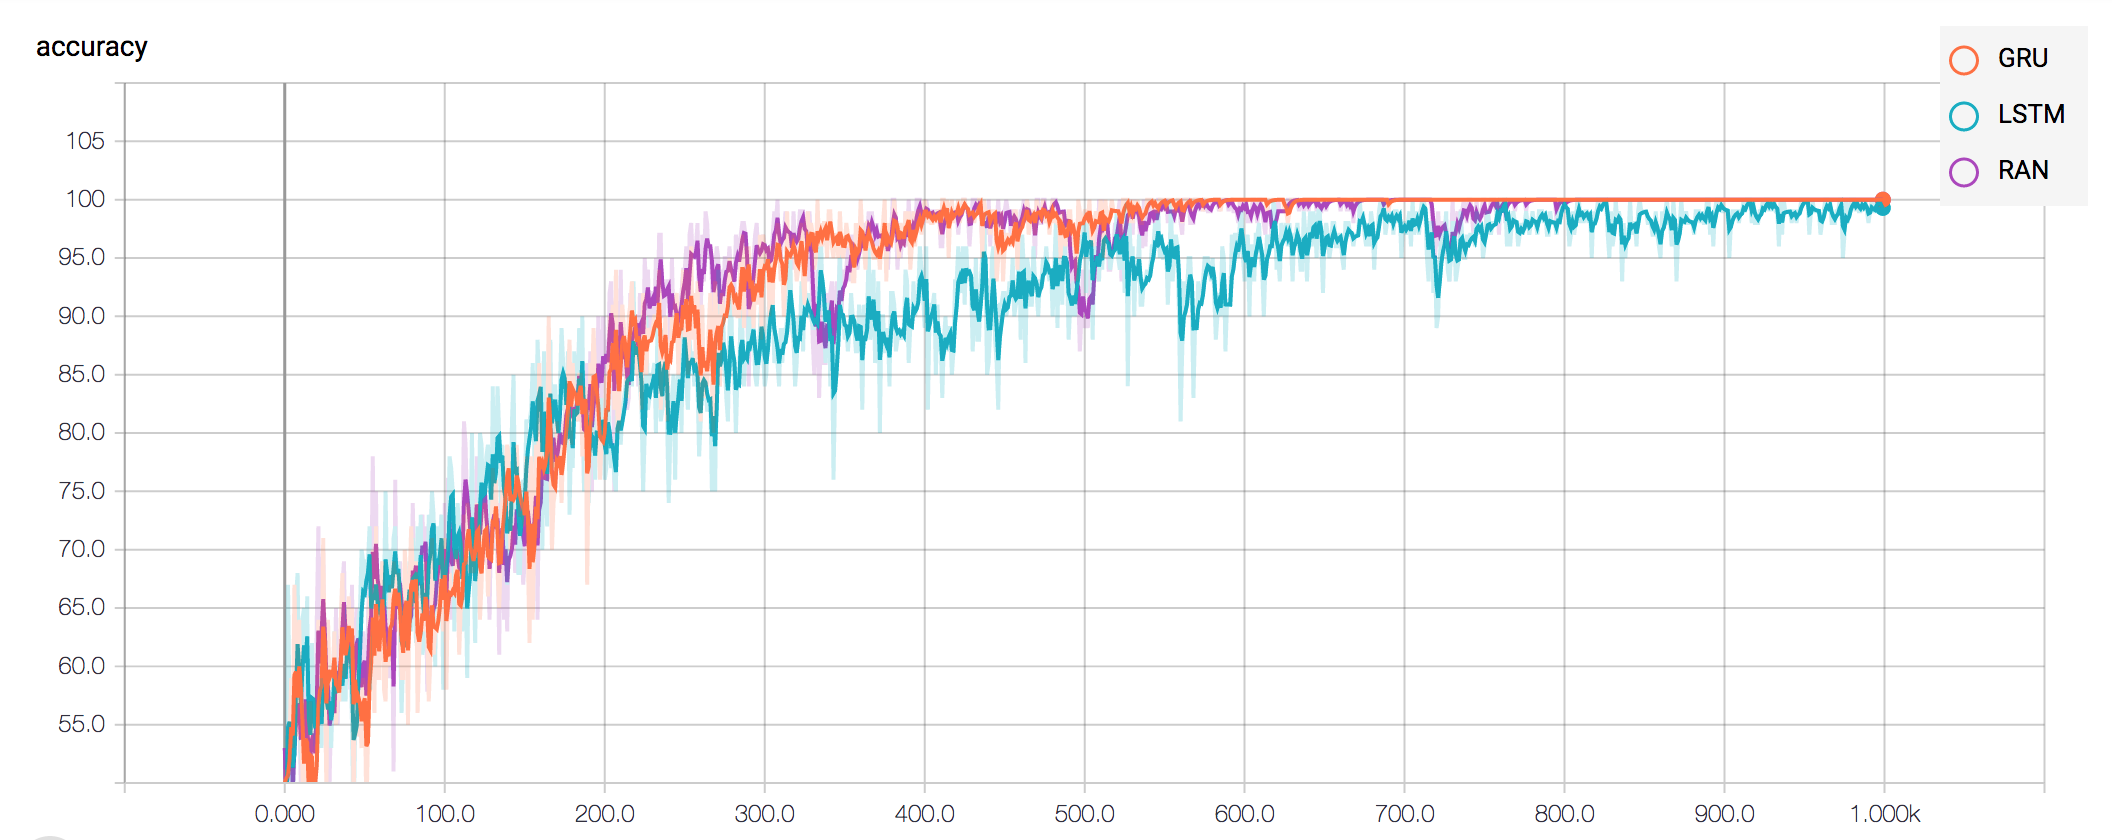
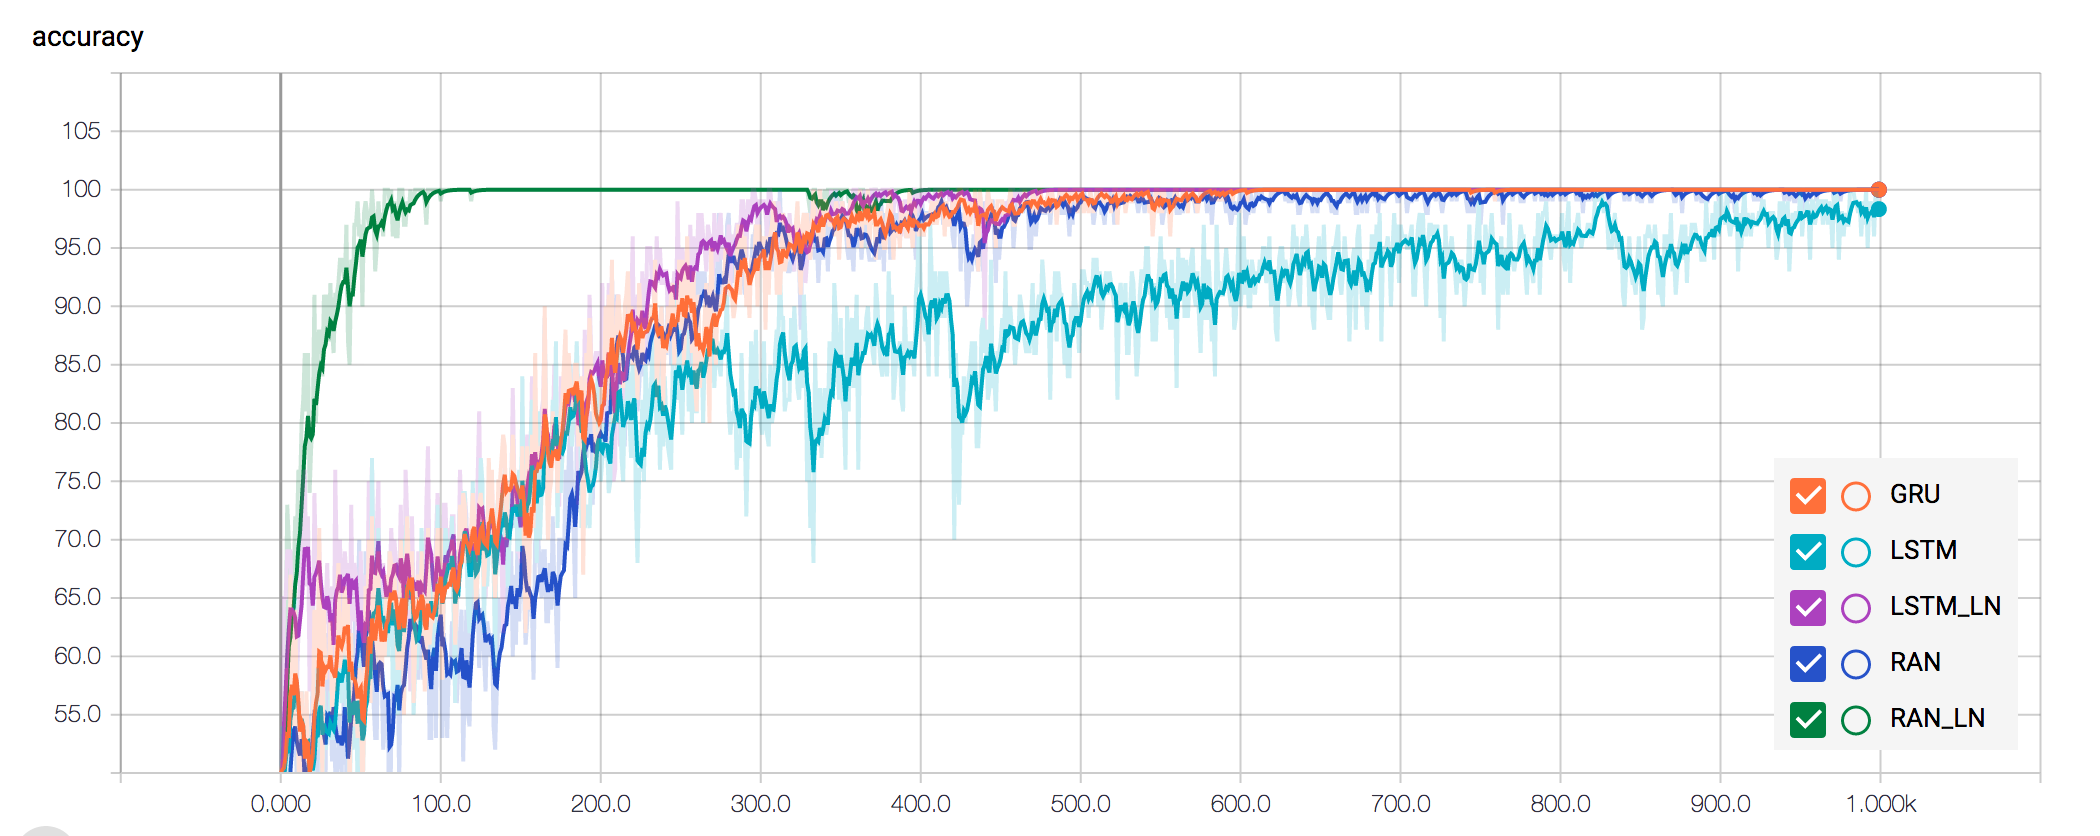
Update diagram image

diff --git a/train.py b/train.py
@@ -3,7 +3,7 @@ import numpy as np
 import tensorflow as tf
 import dataplumbing as dp
 from tensorflow.contrib import rnn
-from tensorflow.contrib.rnn import GRUCell, LSTMCell
+from tensorflow.contrib.rnn import GRUCell, BasicLSTMCell, LayerNormBasicLSTMCell
 from tensorflow.contrib.rnn.python.ops import core_rnn
 from tensorflow.contrib.layers import xavier_initializer as glorot
 from ran_cell import RANCell
@@ -20,7 +20,7 @@ def main(_):
   num_cells = 250
   num_classes = dp.train.num_classes
   initialization_factor = 1.0
-  num_iterations = 1000
+  num_iterations = 500
   batch_size = 100
   learning_rate = 0.001
   current_step = 0
@@ -38,7 +38,9 @@ def main(_):
     if FLAGS.rnn_type == "RAN":
       cell = RANCell(num_cells)
     elif FLAGS.rnn_type == "LSTM":
-      cell = LSTMCell(num_cells)
+      cell = BasicLSTMCell(num_cells)
+    elif FLAGS.rnn_type == "LSTM_LN":
+      cell = LayerNormBasicLSTMCell(num_cells)
     elif FLAGS.rnn_type == "GRU":
       cell = GRUCell(num_cells)
     elif FLAGS.rnn_type == "RAN_LN":
@@ -52,7 +54,7 @@ def main(_):
                                         maxval=np.sqrt(6.0*initialization_factor / (num_cells + num_classes))))
     b_o = tf.Variable(tf.zeros([num_classes]))
 
-    if FLAGS.rnn_type == "LSTM":
+    if FLAGS.rnn_type == "LSTM" or FLAGS.rnn_type == "LSTM_LN":
       ly = tf.matmul(states.h, W_o) + b_o
     else:
       ly = tf.matmul(states, W_o) + b_o
